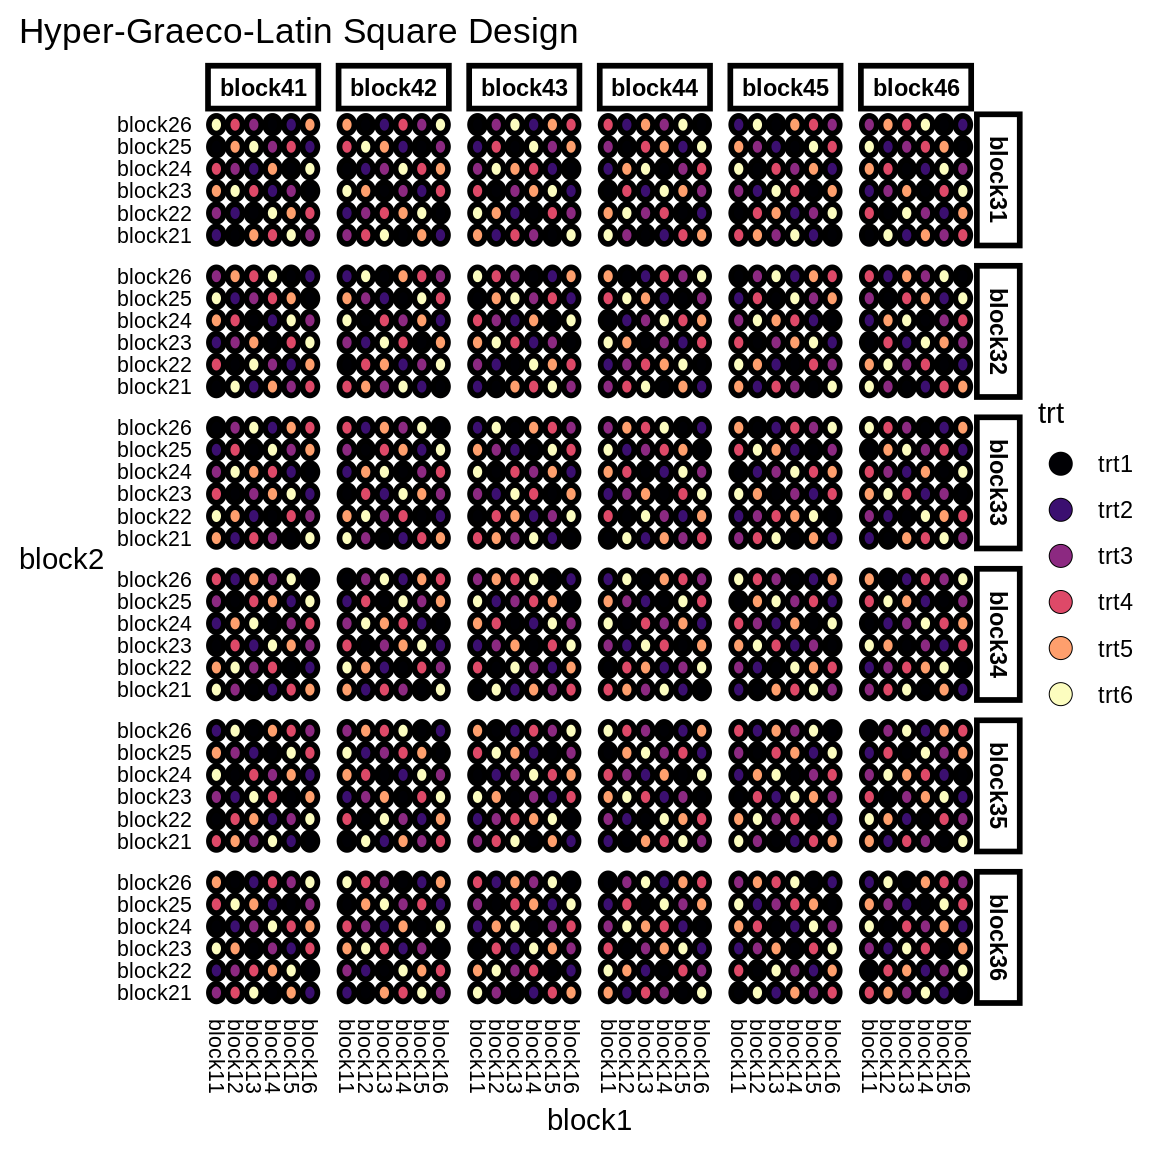
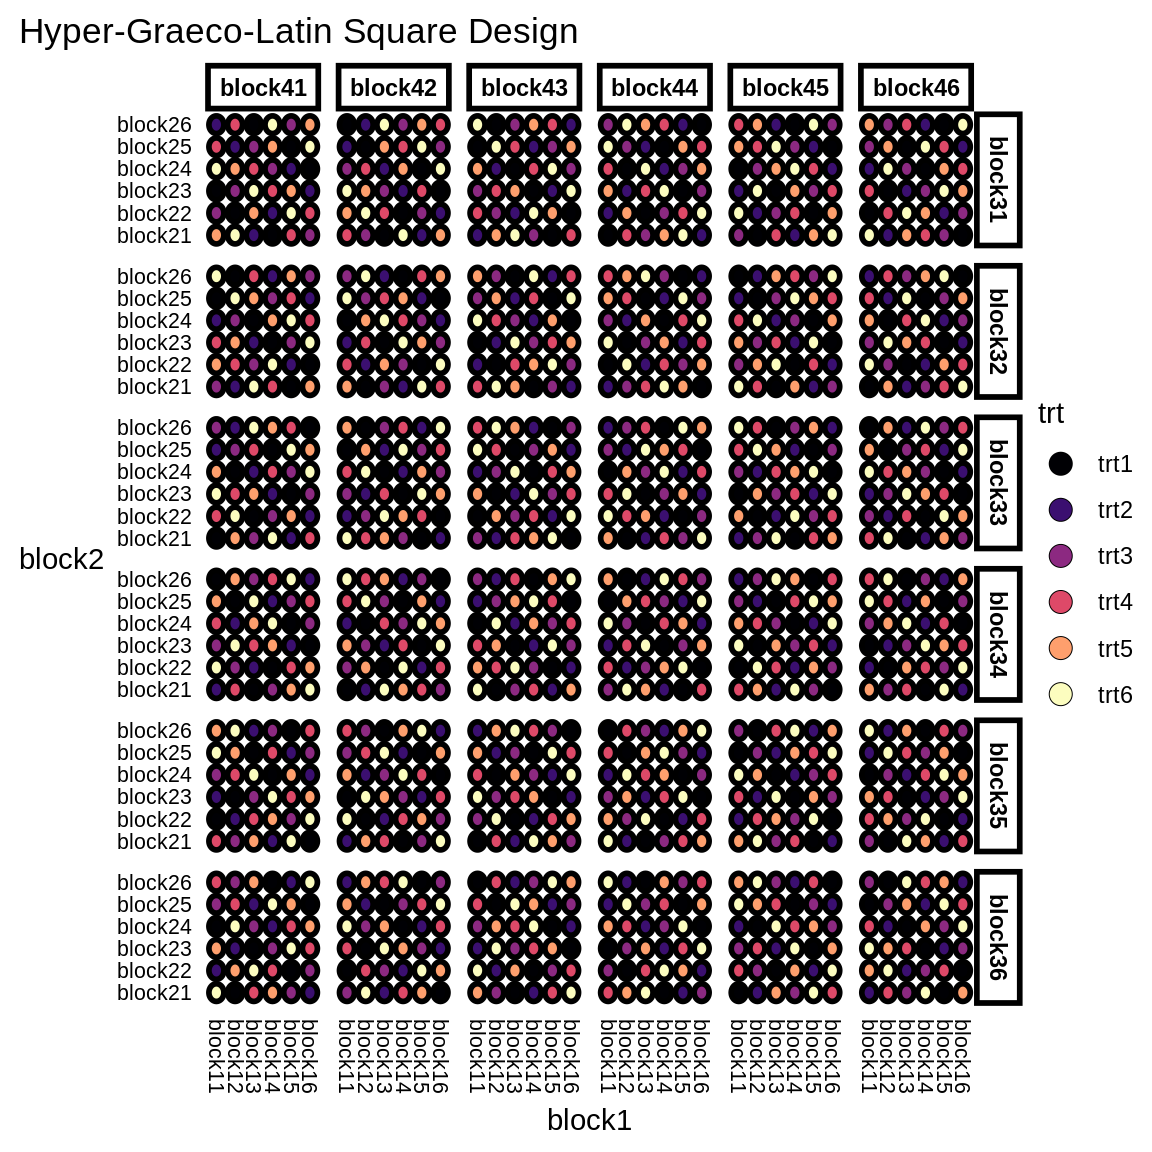
Deploying to gh-pages from @ emitanaka/edibble-book@706e2e84c4d4ef8e2ef70cd43ed3270b28980e06 🚀

Changed region(s): [[0.1875, 0.5, 0.8438, 0.875], [0.1875, 0.0938, 0.8438, 0.4688]]

diff --git a/cookbook.html b/cookbook.html
@@ -239,16 +239,28 @@
 <span class="header-section-number">5.7</span> Strip-plot design<a class="anchor" aria-label="anchor" href="#strip-plot-design"><i class="fas fa-link"></i></a>
 </h2>
 <div class="sourceCode" id="cb52"><pre class="downlit sourceCode r">
-<code class="sourceCode R"><span class="va">strip</span> <span class="op">&lt;-</span> <span class="fu"><a href="https://edibble.emitanaka.org/reference/takeout.html">takeout</a></span><span class="op">(</span><span class="fu"><a href="https://edibble.emitanaka.org/reference/menu_strip.html">menu_strip</a></span><span class="op">(</span>t1 <span class="op">=</span> <span class="fl">2</span>, t2 <span class="op">=</span> <span class="fl">4</span>, r <span class="op">=</span> <span class="fl">1</span><span class="op">)</span><span class="op">)</span>
+<code class="sourceCode R"><span class="va">strip</span> <span class="op">&lt;-</span> <span class="fu"><a href="https://edibble.emitanaka.org/reference/takeout.html">takeout</a></span><span class="op">(</span><span class="fu"><a href="https://edibble.emitanaka.org/reference/menu_strip.html">menu_strip</a></span><span class="op">(</span>t1 <span class="op">=</span> <span class="fl">3</span>, t2 <span class="op">=</span> <span class="fl">4</span>, r <span class="op">=</span> <span class="fl">9</span><span class="op">)</span><span class="op">)</span>
 <span class="fu"><a href="https://edibble.emitanaka.org/reference/examine_recipe.html">examine_recipe</a></span><span class="op">(</span><span class="va">strip</span><span class="op">)</span></code></pre></div>
-<div class="sourceCode" id="cb53"><pre class="downlit sourceCode r">
-<code class="sourceCode R"><span class="fu"><a href="https://ggplot2.tidyverse.org/reference/autoplot.html">autoplot</a></span><span class="op">(</span><span class="va">strip</span><span class="op">)</span></code></pre></div>
+<pre><code>start_design("Strip-Plot Design | Strip-Unit Design") %&gt;%
+  set_units(block = 9,
+            row = nested_in(block, 3),
+            col = nested_in(block, 4),
+            unit = nested_in(block, ~row:col)) %&gt;%
+  set_trts(trt1 = 3,
+           trt2 = 4) %&gt;%
+  allot_trts(trt1 ~ row,
+             trt2 ~ col) %&gt;%
+  assign_trts("random", seed = 998) %&gt;%
+  serve_table()</code></pre>
+<div class="sourceCode" id="cb54"><pre class="downlit sourceCode r">
+<code class="sourceCode R"><span class="fu"><a href="https://ggplot2.tidyverse.org/reference/autoplot.html">autoplot</a></span><span class="op">(</span><span class="va">strip</span><span class="op">)</span> <span class="op">+</span> <span class="fu"><a href="https://ggplot2.tidyverse.org/reference/facet_wrap.html">facet_wrap</a></span><span class="op">(</span><span class="op">~</span><span class="va">block</span>, scales <span class="op">=</span> <span class="st">"free"</span><span class="op">)</span></code></pre></div>
+<div class="inline-figure"><img src="figures/autoplot-strip-1.png" width="576"></div>
 </div>
 <div id="graeco-latin-square-design" class="section level2">
 <h2>
 <span class="header-section-number">5.8</span> Graeco-Latin square design<a class="anchor" aria-label="anchor" href="#graeco-latin-square-design"><i class="fas fa-link"></i></a>
 </h2>
-<div class="sourceCode" id="cb54"><pre class="downlit sourceCode r">
+<div class="sourceCode" id="cb55"><pre class="downlit sourceCode r">
 <code class="sourceCode R"><span class="va">graeco</span> <span class="op">&lt;-</span> <span class="fu"><a href="https://edibble.emitanaka.org/reference/takeout.html">takeout</a></span><span class="op">(</span><span class="fu"><a href="https://edibble.emitanaka.org/reference/menu_graeco.html">menu_graeco</a></span><span class="op">(</span>t <span class="op">=</span> <span class="fl">9</span><span class="op">)</span><span class="op">)</span>
 <span class="fu"><a href="https://edibble.emitanaka.org/reference/examine_recipe.html">examine_recipe</a></span><span class="op">(</span><span class="va">graeco</span><span class="op">)</span></code></pre></div>
 <pre><code>start_design("Graeco-Latin Square Design") %&gt;%
@@ -259,9 +271,9 @@
            trt2 = 9) %&gt;%
   allot_trts(trt1 ~ unit,
              trt2 ~ unit) %&gt;%
-  assign_trts("random", seed = 998) %&gt;%
+  assign_trts("random", seed = 942) %&gt;%
   serve_table()</code></pre>
-<div class="sourceCode" id="cb56"><pre class="downlit sourceCode r">
+<div class="sourceCode" id="cb57"><pre class="downlit sourceCode r">
 <code class="sourceCode R"><span class="fu"><a href="https://ggplot2.tidyverse.org/reference/autoplot.html">autoplot</a></span><span class="op">(</span><span class="va">graeco</span><span class="op">)</span></code></pre></div>
 <div class="inline-figure"><img src="figures/autoplot-graeco-1.png" width="576"></div>
 </div>
@@ -269,7 +281,7 @@
 <h2>
 <span class="header-section-number">5.9</span> Hyper-Graeco-Latin square design<a class="anchor" aria-label="anchor" href="#hyper-graeco-latin-square-design"><i class="fas fa-link"></i></a>
 </h2>
-<div class="sourceCode" id="cb57"><pre class="downlit sourceCode r">
+<div class="sourceCode" id="cb58"><pre class="downlit sourceCode r">
 <code class="sourceCode R"><span class="va">hyper_graeco</span> <span class="op">&lt;-</span> <span class="fu"><a href="https://edibble.emitanaka.org/reference/takeout.html">takeout</a></span><span class="op">(</span><span class="fu"><a href="https://edibble.emitanaka.org/reference/menu_hyper_graeco.html">menu_hyper_graeco</a></span><span class="op">(</span>t <span class="op">=</span> <span class="fl">6</span><span class="op">)</span><span class="op">)</span>
 <span class="fu"><a href="https://edibble.emitanaka.org/reference/examine_recipe.html">examine_recipe</a></span><span class="op">(</span><span class="va">hyper_graeco</span><span class="op">)</span></code></pre></div>
 <pre><code>start_design("Hyper-Graeco-Latin Square Design") %&gt;%
@@ -280,9 +292,9 @@
             unit = ~block1:block2:block3:block4) %&gt;%
   set_trts(trt = 6) %&gt;%
   allot_trts(trt ~ unit) %&gt;%
-  assign_trts("random", seed = 131) %&gt;%
+  assign_trts("random", seed = 540) %&gt;%
   serve_table()</code></pre>
-<div class="sourceCode" id="cb59"><pre class="downlit sourceCode r">
+<div class="sourceCode" id="cb60"><pre class="downlit sourceCode r">
 <code class="sourceCode R"><span class="fu"><a href="https://ggplot2.tidyverse.org/reference/autoplot.html">autoplot</a></span><span class="op">(</span><span class="va">hyper_graeco</span><span class="op">)</span></code></pre></div>
 <div class="inline-figure"><img src="figures/autoplot-hyper-graeco-1.png" width="576"></div>
 </div>
@@ -290,7 +302,7 @@
 <h2>
 <span class="header-section-number">5.10</span> Youden square design<a class="anchor" aria-label="anchor" href="#youden-square-design"><i class="fas fa-link"></i></a>
 </h2>
-<div class="sourceCode" id="cb60"><pre class="downlit sourceCode r">
+<div class="sourceCode" id="cb61"><pre class="downlit sourceCode r">
 <code class="sourceCode R"><span class="va">youden</span> <span class="op">&lt;-</span> <span class="fu"><a href="https://edibble.emitanaka.org/reference/takeout.html">takeout</a></span><span class="op">(</span><span class="fu"><a href="https://edibble.emitanaka.org/reference/menu_youden.html">menu_youden</a></span><span class="op">(</span>nc <span class="op">=</span> <span class="fl">4</span>, t <span class="op">=</span> <span class="fl">5</span><span class="op">)</span><span class="op">)</span>
 <span class="fu"><a href="https://edibble.emitanaka.org/reference/examine_recipe.html">examine_recipe</a></span><span class="op">(</span><span class="va">youden</span><span class="op">)</span></code></pre></div>
 <pre><code>start_design("Youden Square Design") %&gt;%
@@ -299,9 +311,9 @@
             unit = ~row:col) %&gt;%
   set_trts(trt = 5) %&gt;%
   allot_trts(trt ~ unit) %&gt;%
-  assign_trts("random", seed = 391) %&gt;%
+  assign_trts("random", seed = 55) %&gt;%
   serve_table()</code></pre>
-<div class="sourceCode" id="cb62"><pre class="downlit sourceCode r">
+<div class="sourceCode" id="cb63"><pre class="downlit sourceCode r">
 <code class="sourceCode R"><span class="fu"><a href="https://ggplot2.tidyverse.org/reference/autoplot.html">autoplot</a></span><span class="op">(</span><span class="va">youden</span><span class="op">)</span></code></pre></div>
 <div class="inline-figure"><img src="figures/autoplot-youden-1.png" width="672"></div>
 
@@ -355,7 +367,7 @@
 <footer class="bg-primary text-light mt-5"><div class="container"><div class="row">
 
   <div class="col-12 col-md-6 mt-3">
-    <p>"<strong>The Grammar of Experimental Designs</strong>" was written by Emi Tanaka. It was last built on 2022-02-03.</p>
+    <p>"<strong>The Grammar of Experimental Designs</strong>" was written by Emi Tanaka. It was last built on 2022-02-06.</p>
   </div>
 
   <div class="col-12 col-md-6 mt-3">

diff --git a/basics.html b/basics.html
@@ -189,7 +189,7 @@ A large-scale experiment was conducted to discern whether expensive wines are go
 <footer class="bg-primary text-light mt-5"><div class="container"><div class="row">
 
   <div class="col-12 col-md-6 mt-3">
-    <p>"<strong>The Grammar of Experimental Designs</strong>" was written by Emi Tanaka. It was last built on 2022-02-03.</p>
+    <p>"<strong>The Grammar of Experimental Designs</strong>" was written by Emi Tanaka. It was last built on 2022-02-06.</p>
   </div>
 
   <div class="col-12 col-md-6 mt-3">

diff --git a/grammar.html b/grammar.html
@@ -104,7 +104,7 @@ The so-called grammar of experimental designs is a term that is heavily influenc
 <footer class="bg-primary text-light mt-5"><div class="container"><div class="row">
 
   <div class="col-12 col-md-6 mt-3">
-    <p>"<strong>The Grammar of Experimental Designs</strong>" was written by Emi Tanaka. It was last built on 2022-02-03.</p>
+    <p>"<strong>The Grammar of Experimental Designs</strong>" was written by Emi Tanaka. It was last built on 2022-02-06.</p>
   </div>
 
   <div class="col-12 col-md-6 mt-3">

diff --git a/404.html b/404.html
@@ -76,7 +76,7 @@ the table of contents to find the page you are looking for.</p>
 <footer class="bg-primary text-light mt-5"><div class="container"><div class="row">
 
   <div class="col-12 col-md-6 mt-3">
-    <p>"<strong>The Grammar of Experimental Designs</strong>" was written by Emi Tanaka. It was last built on 2022-02-03.</p>
+    <p>"<strong>The Grammar of Experimental Designs</strong>" was written by Emi Tanaka. It was last built on 2022-02-06.</p>
   </div>
 
   <div class="col-12 col-md-6 mt-3">

diff --git a/management.html b/management.html
@@ -105,7 +105,7 @@
 <footer class="bg-primary text-light mt-5"><div class="container"><div class="row">
 
   <div class="col-12 col-md-6 mt-3">
-    <p>"<strong>The Grammar of Experimental Designs</strong>" was written by Emi Tanaka. It was last built on 2022-02-03.</p>
+    <p>"<strong>The Grammar of Experimental Designs</strong>" was written by Emi Tanaka. It was last built on 2022-02-06.</p>
   </div>
 
   <div class="col-12 col-md-6 mt-3">

diff --git a/preface.html b/preface.html
@@ -102,7 +102,7 @@
 <footer class="bg-primary text-light mt-5"><div class="container"><div class="row">
 
   <div class="col-12 col-md-6 mt-3">
-    <p>"<strong>The Grammar of Experimental Designs</strong>" was written by Emi Tanaka. It was last built on 2022-02-03.</p>
+    <p>"<strong>The Grammar of Experimental Designs</strong>" was written by Emi Tanaka. It was last built on 2022-02-06.</p>
   </div>
 
   <div class="col-12 col-md-6 mt-3">

diff --git a/start.html b/start.html
@@ -364,7 +364,7 @@
 <footer class="bg-primary text-light mt-5"><div class="container"><div class="row">
 
   <div class="col-12 col-md-6 mt-3">
-    <p>"<strong>The Grammar of Experimental Designs</strong>" was written by Emi Tanaka. It was last built on 2022-02-03.</p>
+    <p>"<strong>The Grammar of Experimental Designs</strong>" was written by Emi Tanaka. It was last built on 2022-02-06.</p>
   </div>
 
   <div class="col-12 col-md-6 mt-3">

diff --git a/index.html b/index.html
@@ -88,7 +88,7 @@
 <footer class="bg-primary text-light mt-5"><div class="container"><div class="row">
 
   <div class="col-12 col-md-6 mt-3">
-    <p>"<strong>The Grammar of Experimental Designs</strong>" was written by Emi Tanaka. It was last built on 2022-02-03.</p>
+    <p>"<strong>The Grammar of Experimental Designs</strong>" was written by Emi Tanaka. It was last built on 2022-02-06.</p>
   </div>
 
   <div class="col-12 col-md-6 mt-3">
